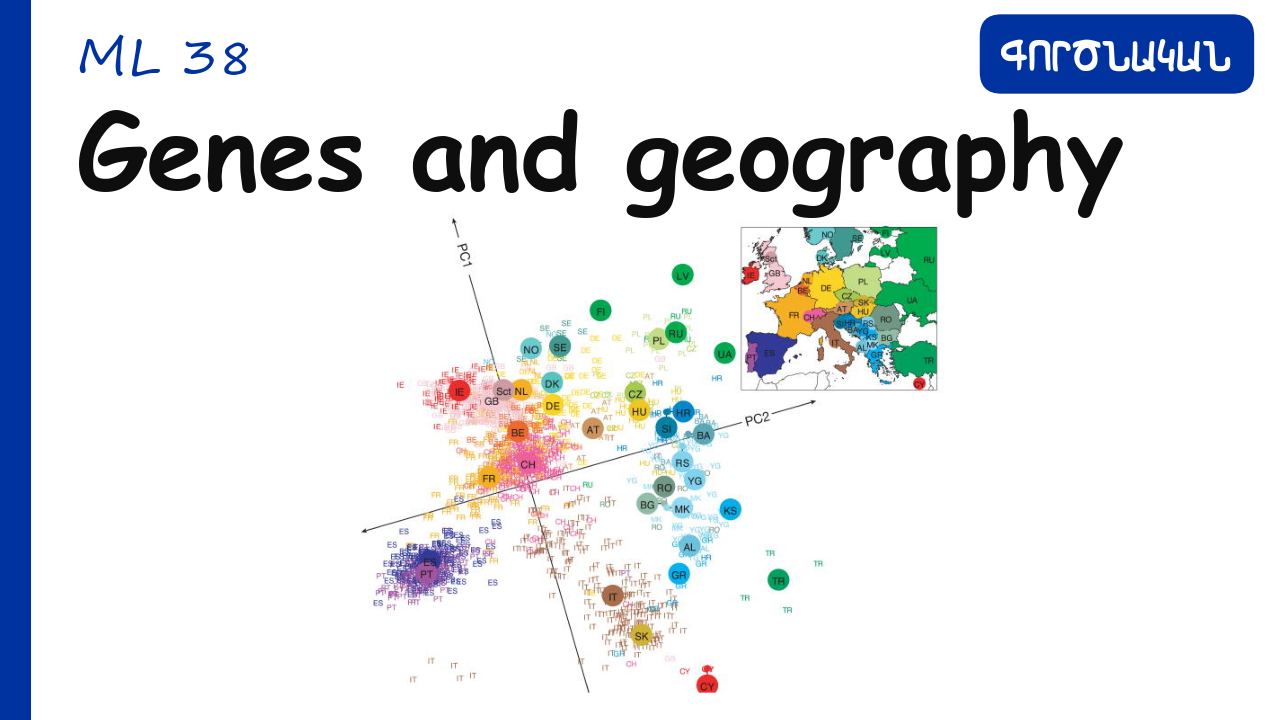
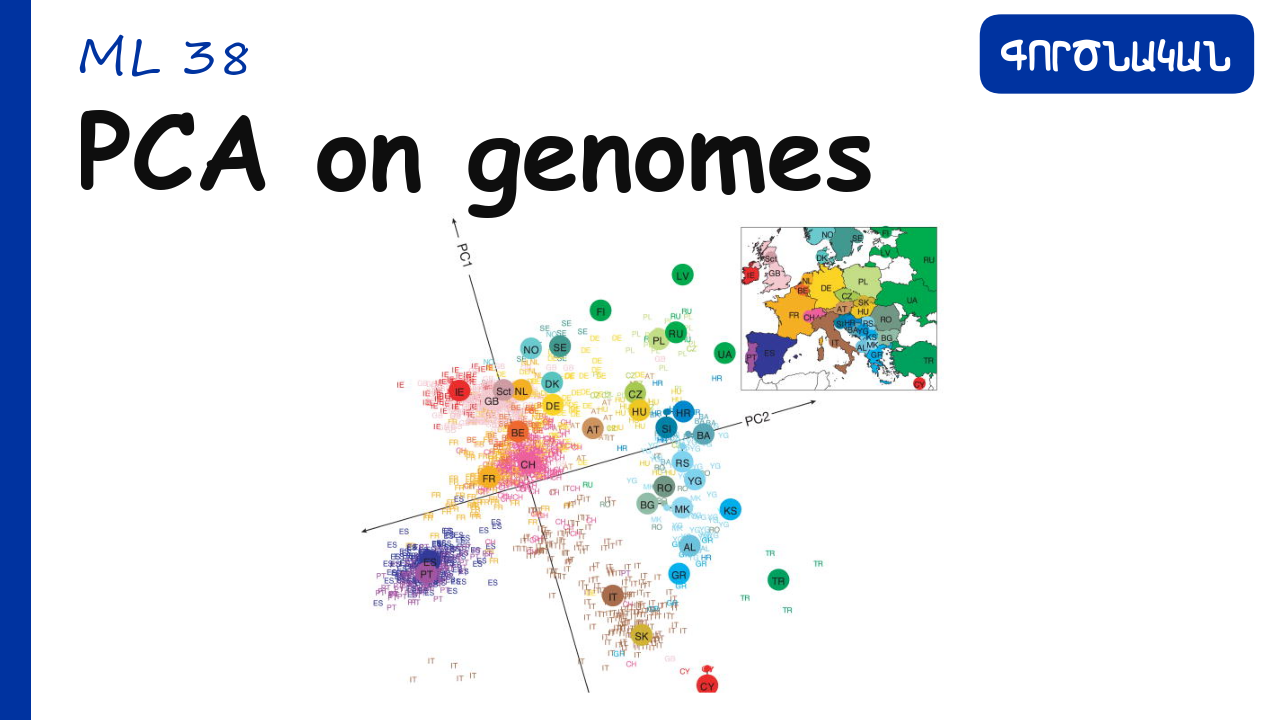
Retitle the ML38 thumbnail to "PCA on genomes"
Lines it up with ML36 "Principal components" and ML37 "t-SNE and UMAP"
as one visible set, and names the method rather than the result.

Changed region(s): [[0.0625, 0.1528, 0.875, 0.3056]]

diff --git a/scripts/make_thumbnails_final.py b/scripts/make_thumbnails_final.py
@@ -1635,7 +1635,7 @@ LESSONS = [
     # ML 38 - dimensionality-reduction practical (Գործնական): the Novembre 2008
     # "genes mirror geography" PCA, top panel only.
     {
-        "tag": "ML 38", "title": "Genes and geography",
+        "tag": "ML 38", "title": "PCA on genomes",
         "title_size": 46, "title_max": 74, "title_latin": True,
         "draw": draw_ml38_genes, "practical": True,
         "bar_color": UNSUP_BAR,
